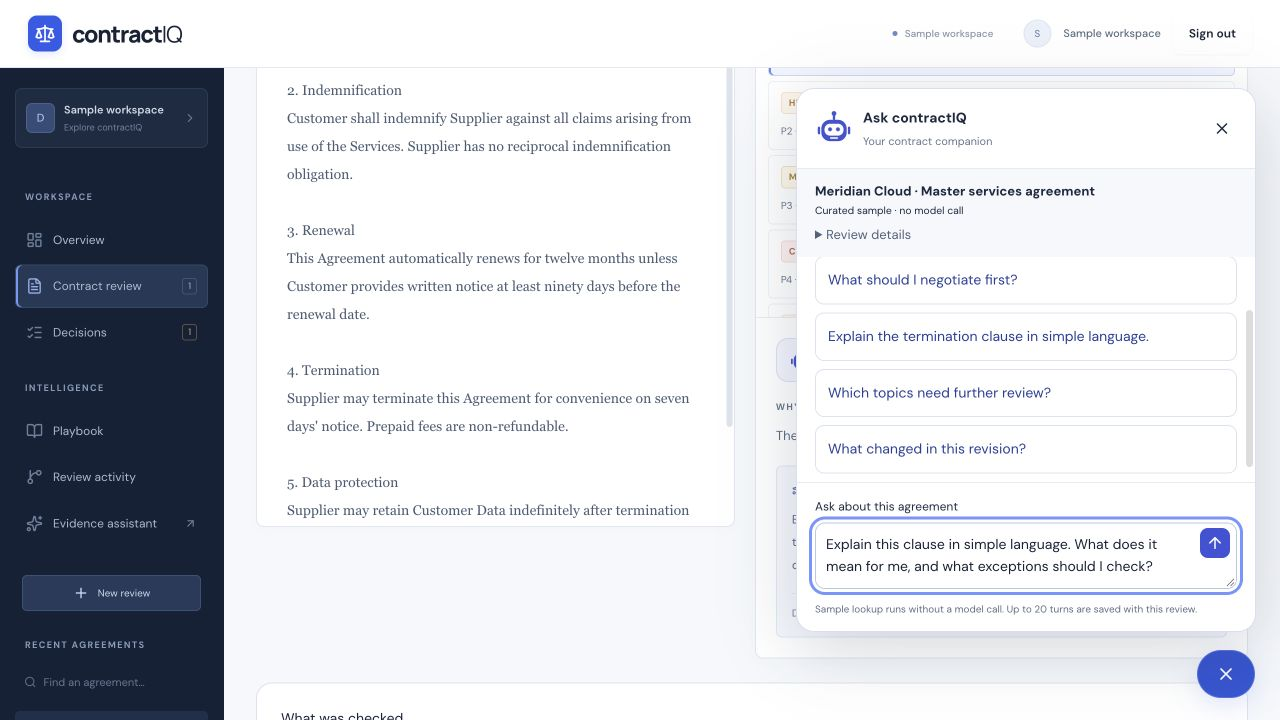
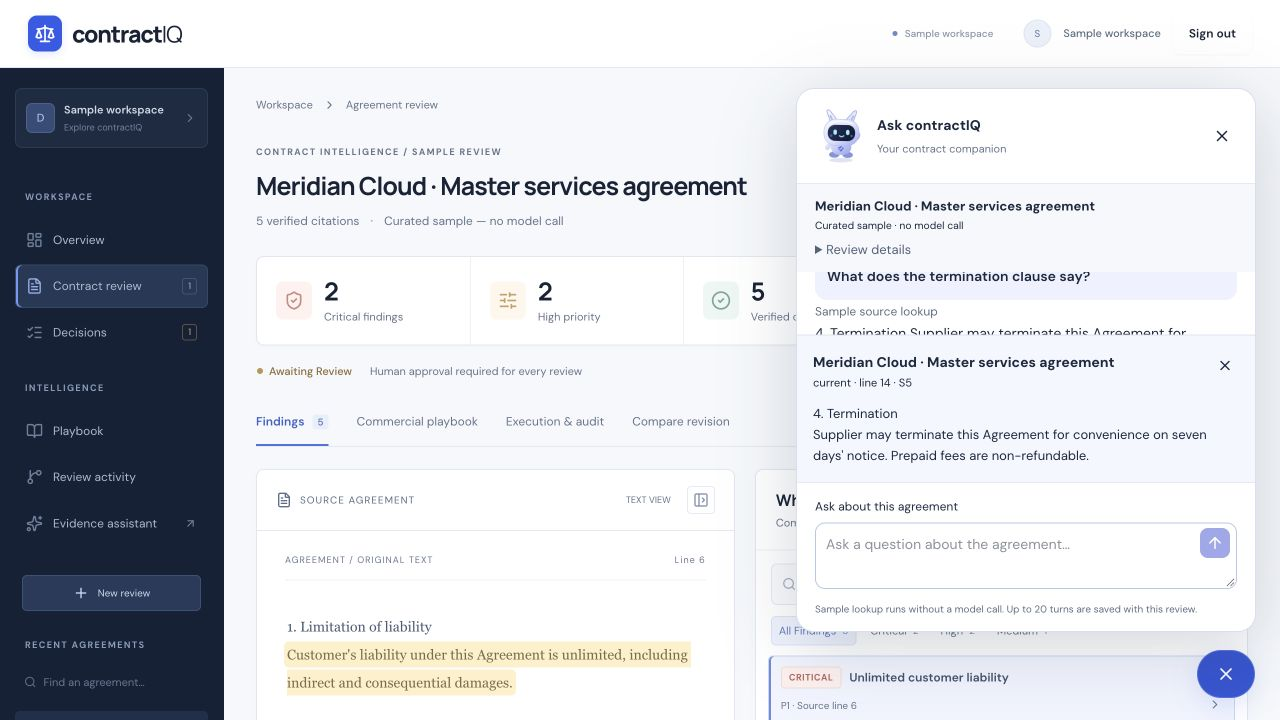
Record companion browser checks and live answer evaluation

diff --git a/docs/judging/companion-qa.md b/docs/judging/companion-qa.md
@@ -1,0 +1,17 @@
+# Contract companion verification — 13 October 2026
+
+The companion is an original SVG character with idle floating, blinking, a greeting wave on hover/focus, and a reading animation while a request is pending. Reduced-motion settings disable its animations. It opens the existing evidence-backed contract assistant.
+
+## Checks
+
+- Frontend lint and production build passed.
+- All 23 frontend unit tests passed. An initial run overlapped with the production build and timed out in an existing sample test; the isolated rerun passed.
+- All 10 assistant backend tests passed: passage retrieval, citation validation, owner isolation, saved history and related review protections.
+- Browser: sample question submission, exact citation drawer, desktop and 390 × 844 phone layout, open/close controls verified.
+- Fixed a lost-draft bug: a new question typed while waiting is no longer erased by the preceding answer.
+
+## Live answers
+
+`evals/review/assistant-companion-2026-10-13.json` retains the first run: five of six cases passed. Draft generation returned HTTP 503 from the provider path. The separate draft retry passed and is preserved in `assistant-companion-draft-retry-2026-10-13.json`.
+
+Inspected responses for payment terms, absent tribunal information, malicious instructions within contract text, conflicting notice periods, and statutory retention exceptions. Answers preserved the tested terms and used source passages. This small synthetic suite is not expert legal validation, and the provider failure remains a reliability limitation of the live service.
